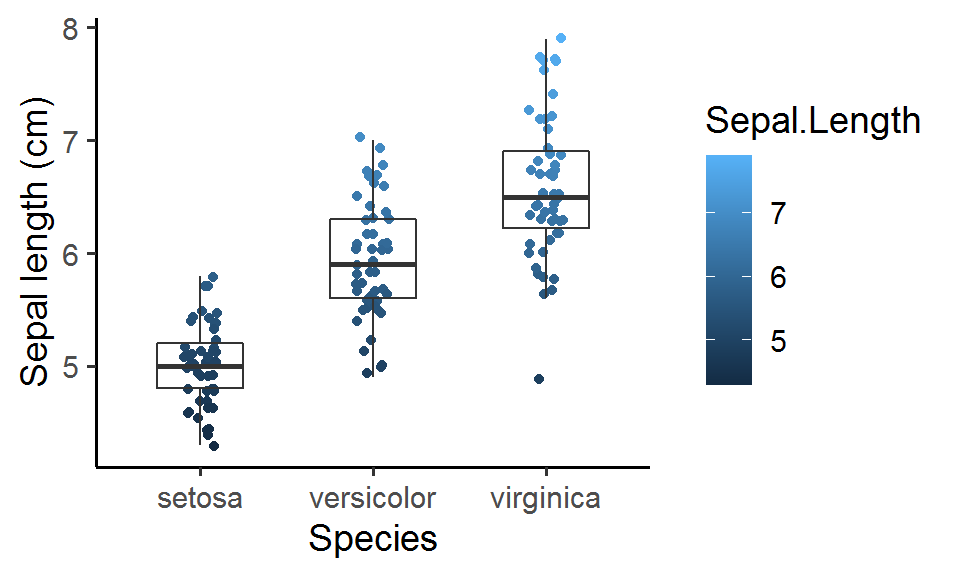
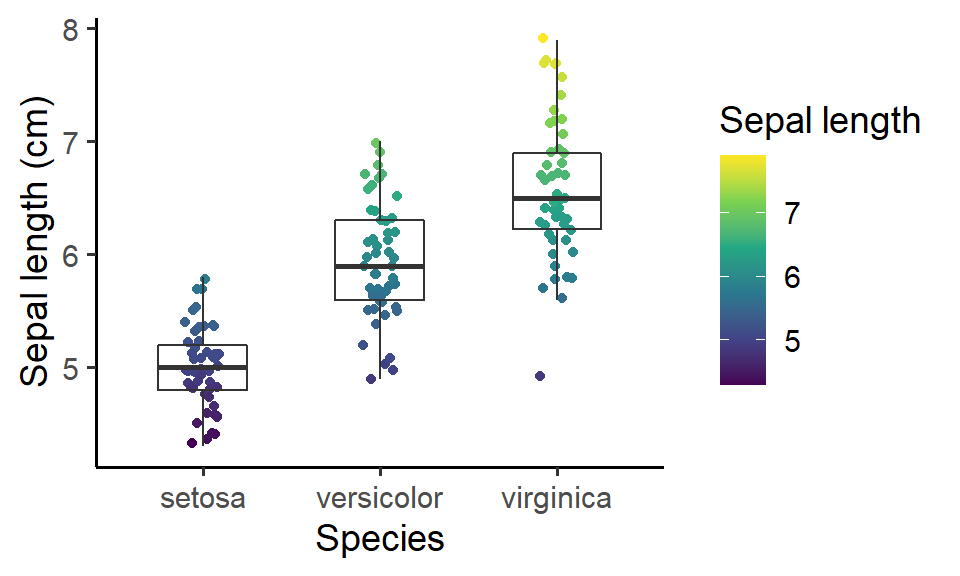
u

diff --git a/_posts/2022-04-24-post-14-multiple-color-scales-in-ggplots/post-14-multiple-color-scales-in-ggplots.html b/_posts/2022-04-24-post-14-multiple-color-scales-in-ggplots/post-14-multiple-color-scales-in-ggplots.html
@@ -89,7 +89,7 @@ code span.wa { color: #5e5e5e; font-style: italic; } /* Warning */
   <!--radix_placeholder_meta_tags-->
   <title>Post #14. Multiple color scales in ggplots</title>
 
-  <meta property="description" itemprop="description" content="A short description of the post."/>
+  <meta property="description" itemprop="description" content="Using different color scales for multiple geom layers with `ggnewscale` and `relayer`"/>
 
 
   <!--  https://schema.org/Article -->
@@ -100,24 +100,24 @@ code span.wa { color: #5e5e5e; font-style: italic; } /* Warning */
   <!--  https://developers.facebook.com/docs/sharing/webmasters#markup -->
   <meta property="og:title" content="Post #14. Multiple color scales in ggplots"/>
   <meta property="og:type" content="article"/>
-  <meta property="og:description" content="A short description of the post."/>
+  <meta property="og:description" content="Using different color scales for multiple geom layers with `ggnewscale` and `relayer`"/>
   <meta property="og:locale" content="en_US"/>
 
   <!--  https://dev.twitter.com/cards/types/summary -->
   <meta property="twitter:card" content="summary"/>
   <meta property="twitter:title" content="Post #14. Multiple color scales in ggplots"/>
-  <meta property="twitter:description" content="A short description of the post."/>
+  <meta property="twitter:description" content="Using different color scales for multiple geom layers with `ggnewscale` and `relayer`"/>
 
   <!--/radix_placeholder_meta_tags-->
   <!--radix_placeholder_rmarkdown_metadata-->
 
   <script type="text/json" id="radix-rmarkdown-metadata">
-  {"type":"list","attributes":{"names":{"type":"character","attributes":{},"value":["title","description","author","date","output","categories","preview","draft"]}},"value":[{"type":"character","attributes":{},"value":["Post #14. Multiple color scales in ggplots"]},{"type":"character","attributes":{},"value":["A short description of the post.\n"]},{"type":"list","attributes":{},"value":[{"type":"list","attributes":{"names":{"type":"character","attributes":{},"value":["name"]}},"value":[{"type":"character","attributes":{},"value":["Gen-Chang Hsu"]}]}]},{"type":"character","attributes":{},"value":["2022-04-24"]},{"type":"list","attributes":{"names":{"type":"character","attributes":{},"value":["distill::distill_article"]}},"value":[{"type":"list","attributes":{"names":{"type":"character","attributes":{},"value":["self_contained"]}},"value":[{"type":"logical","attributes":{},"value":[false]}]}]},{"type":"character","attributes":{},"value":["2022"]},{"type":"character","attributes":{},"value":["../../homepage_images/Post14.png"]},{"type":"logical","attributes":{},"value":[true]}]}
+  {"type":"list","attributes":{"names":{"type":"character","attributes":{},"value":["title","description","author","date","output","categories","preview","draft"]}},"value":[{"type":"character","attributes":{},"value":["Post #14. Multiple color scales in ggplots"]},{"type":"character","attributes":{},"value":["Using different color scales for multiple geom layers with `ggnewscale` and `relayer`\n"]},{"type":"list","attributes":{},"value":[{"type":"list","attributes":{"names":{"type":"character","attributes":{},"value":["name"]}},"value":[{"type":"character","attributes":{},"value":["Gen-Chang Hsu"]}]}]},{"type":"character","attributes":{},"value":["2022-04-24"]},{"type":"list","attributes":{"names":{"type":"character","attributes":{},"value":["distill::distill_article"]}},"value":[{"type":"list","attributes":{"names":{"type":"character","attributes":{},"value":["self_contained"]}},"value":[{"type":"logical","attributes":{},"value":[false]}]}]},{"type":"character","attributes":{},"value":["2022"]},{"type":"character","attributes":{},"value":["../../homepage_images/Post14.png"]},{"type":"logical","attributes":{},"value":[true]}]}
   </script>
   <!--/radix_placeholder_rmarkdown_metadata-->
   
   <script type="text/json" id="radix-resource-manifest">
-  {"type":"character","attributes":{},"value":["post-14-multiple-color-scales-in-ggplots_files/anchor-4.2.2/anchor.min.js","post-14-multiple-color-scales-in-ggplots_files/bowser-1.9.3/bowser.min.js","post-14-multiple-color-scales-in-ggplots_files/distill-2.2.21/template.v2.js","post-14-multiple-color-scales-in-ggplots_files/figure-html5/unnamed-chunk-1-1.png","post-14-multiple-color-scales-in-ggplots_files/figure-html5/unnamed-chunk-2-1.png","post-14-multiple-color-scales-in-ggplots_files/header-attrs-2.11/header-attrs.js","post-14-multiple-color-scales-in-ggplots_files/jquery-3.6.0/jquery-3.6.0.js","post-14-multiple-color-scales-in-ggplots_files/jquery-3.6.0/jquery-3.6.0.min.js","post-14-multiple-color-scales-in-ggplots_files/jquery-3.6.0/jquery-3.6.0.min.map","post-14-multiple-color-scales-in-ggplots_files/popper-2.6.0/popper.min.js","post-14-multiple-color-scales-in-ggplots_files/tippy-6.2.7/tippy-bundle.umd.min.js","post-14-multiple-color-scales-in-ggplots_files/tippy-6.2.7/tippy-light-border.css","post-14-multiple-color-scales-in-ggplots_files/tippy-6.2.7/tippy.css","post-14-multiple-color-scales-in-ggplots_files/tippy-6.2.7/tippy.umd.min.js","post-14-multiple-color-scales-in-ggplots_files/webcomponents-2.0.0/webcomponents.js"]}
+  {"type":"character","attributes":{},"value":["post-14-multiple-color-scales-in-ggplots_files/anchor-4.2.2/anchor.min.js","post-14-multiple-color-scales-in-ggplots_files/bowser-1.9.3/bowser.min.js","post-14-multiple-color-scales-in-ggplots_files/distill-2.2.21/template.v2.js","post-14-multiple-color-scales-in-ggplots_files/figure-html5/unnamed-chunk-1-1.png","post-14-multiple-color-scales-in-ggplots_files/figure-html5/unnamed-chunk-2-1.png","post-14-multiple-color-scales-in-ggplots_files/figure-html5/unnamed-chunk-3-1.png","post-14-multiple-color-scales-in-ggplots_files/header-attrs-2.11/header-attrs.js","post-14-multiple-color-scales-in-ggplots_files/header-attrs-2.13/header-attrs.js","post-14-multiple-color-scales-in-ggplots_files/jquery-3.6.0/jquery-3.6.0.js","post-14-multiple-color-scales-in-ggplots_files/jquery-3.6.0/jquery-3.6.0.min.js","post-14-multiple-color-scales-in-ggplots_files/jquery-3.6.0/jquery-3.6.0.min.map","post-14-multiple-color-scales-in-ggplots_files/popper-2.6.0/popper.min.js","post-14-multiple-color-scales-in-ggplots_files/tippy-6.2.7/tippy-bundle.umd.min.js","post-14-multiple-color-scales-in-ggplots_files/tippy-6.2.7/tippy-light-border.css","post-14-multiple-color-scales-in-ggplots_files/tippy-6.2.7/tippy.css","post-14-multiple-color-scales-in-ggplots_files/tippy-6.2.7/tippy.umd.min.js","post-14-multiple-color-scales-in-ggplots_files/webcomponents-2.0.0/webcomponents.js"]}
   </script>
   <!--radix_placeholder_navigation_in_header-->
   <!--/radix_placeholder_navigation_in_header-->
@@ -1438,7 +1438,7 @@ code span.wa { color: #5e5e5e; font-style: italic; } /* Warning */
   </script>
 
   <!--/radix_placeholder_distill-->
-  <script src="post-14-multiple-color-scales-in-ggplots_files/header-attrs-2.11/header-attrs.js"></script>
+  <script src="post-14-multiple-color-scales-in-ggplots_files/header-attrs-2.13/header-attrs.js"></script>
   <script src="post-14-multiple-color-scales-in-ggplots_files/jquery-3.6.0/jquery-3.6.0.min.js"></script>
   <script src="post-14-multiple-color-scales-in-ggplots_files/popper-2.6.0/popper.min.js"></script>
   <link href="post-14-multiple-color-scales-in-ggplots_files/tippy-6.2.7/tippy.css" rel="stylesheet" />
@@ -1459,7 +1459,7 @@ code span.wa { color: #5e5e5e; font-style: italic; } /* Warning */
 <!--radix_placeholder_front_matter-->
 
 <script id="distill-front-matter" type="text/json">
-{"title":"Post #14. Multiple color scales in ggplots","description":"A short description of the post.","authors":[{"author":"Gen-Chang Hsu","authorURL":"#","affiliation":"&nbsp;","affiliationURL":"#","orcidID":""}],"publishedDate":"2022-04-24T00:00:00.000-07:00","citationText":"Hsu, 2022"}
+{"title":"Post #14. Multiple color scales in ggplots","description":"Using different color scales for multiple geom layers with `ggnewscale` and `relayer`","authors":[{"author":"Gen-Chang Hsu","authorURL":"#","affiliation":"&nbsp;","affiliationURL":"#","orcidID":""}],"publishedDate":"2022-04-24T00:00:00.000+08:00","citationText":"Hsu, 2022"}
 </script>
 
 <!--/radix_placeholder_front_matter-->
@@ -1475,7 +1475,7 @@ code span.wa { color: #5e5e5e; font-style: italic; } /* Warning */
 <div class="dt=tag">2022</div>
 </div>
 <!--/radix_placeholder_categories-->
-<p><p>A short description of the post.</p></p>
+<p><p>Using different color scales for multiple geom layers with <code>ggnewscale</code> and <code>relayer</code></p></p>
 </div>
 
 <div class="d-byline">
@@ -1550,52 +1550,68 @@ div.l-body img {
 </style>
 <!-- Start of the article -->
 <h2 id="the-problem">The problem</h2>
-<p>create a contour plot mapped to continuous colors add a second geom
-layer with mapped to discrete colors</p>
+<p>Sometimes we may want to use different “color” aesthetics for multiple geom layers. Sounds abstract? To make it clear, we’ll begin with an example plot:</p>
 <div class="layout-chunk" data-layout="l-body">
 <div class="sourceCode">
 <pre class="sourceCode r"><code class="sourceCode r"><span class='kw'><a href='https://rdrr.io/r/base/library.html'>library</a></span><span class='op'>(</span><span class='va'><a href='https://tidyverse.tidyverse.org'>tidyverse</a></span><span class='op'>)</span>
 
-<span class='fu'><a href='https://rdrr.io/pkg/ggplot2/man/ggplot.html'>ggplot</a></span><span class='op'>(</span><span class='va'>iris</span><span class='op'>)</span> <span class='op'>+</span> 
-  <span class='fu'><a href='https://rdrr.io/pkg/ggplot2/man/geom_point.html'>geom_point</a></span><span class='op'>(</span><span class='fu'><a href='https://rdrr.io/pkg/ggplot2/man/aes.html'>aes</a></span><span class='op'>(</span>x <span class='op'>=</span> <span class='va'>Species</span>, y <span class='op'>=</span> <span class='va'>Sepal.Length</span>, color <span class='op'>=</span> <span class='va'>Sepal.Length</span><span class='op'>)</span>, position <span class='op'>=</span> <span class='fu'><a href='https://rdrr.io/pkg/ggplot2/man/position_jitter.html'>position_jitter</a></span><span class='op'>(</span>width <span class='op'>=</span> <span class='fl'>0.1</span><span class='op'>)</span><span class='op'>)</span> <span class='op'>+</span> 
-  <span class='fu'><a href='https://rdrr.io/pkg/ggplot2/man/geom_boxplot.html'>geom_boxplot</a></span><span class='op'>(</span><span class='fu'><a href='https://rdrr.io/pkg/ggplot2/man/aes.html'>aes</a></span><span class='op'>(</span>x <span class='op'>=</span> <span class='va'>Species</span>, y <span class='op'>=</span> <span class='va'>Sepal.Length</span><span class='op'>)</span>, width <span class='op'>=</span> <span class='fl'>0.5</span>, outlier.color <span class='op'>=</span> <span class='cn'>NA</span>, fill <span class='op'>=</span> <span class='cn'>NA</span><span class='op'>)</span> <span class='op'>+</span> 
-  <span class='fu'><a href='https://rdrr.io/pkg/ggplot2/man/labs.html'>labs</a></span><span class='op'>(</span>y <span class='op'>=</span> <span class='st'>"Sepal length (cm)"</span><span class='op'>)</span> <span class='op'>+</span> 
-  <span class='fu'><a href='https://rdrr.io/pkg/ggplot2/man/ggtheme.html'>theme_classic</a></span><span class='op'>(</span>base_size <span class='op'>=</span> <span class='fl'>14</span><span class='op'>)</span>
+<span class='fu'><a href='https://ggplot2.tidyverse.org/reference/ggplot.html'>ggplot</a></span><span class='op'>(</span>data <span class='op'>=</span> <span class='va'>iris</span><span class='op'>)</span> <span class='op'>+</span> 
+  <span class='fu'><a href='https://ggplot2.tidyverse.org/reference/geom_point.html'>geom_point</a></span><span class='op'>(</span><span class='fu'><a href='https://ggplot2.tidyverse.org/reference/aes.html'>aes</a></span><span class='op'>(</span>x <span class='op'>=</span> <span class='va'>Species</span>, y <span class='op'>=</span> <span class='va'>Sepal.Length</span>, color <span class='op'>=</span> <span class='va'>Sepal.Length</span><span class='op'>)</span>, position <span class='op'>=</span> <span class='fu'><a href='https://ggplot2.tidyverse.org/reference/position_jitter.html'>position_jitter</a></span><span class='op'>(</span>width <span class='op'>=</span> <span class='fl'>0.1</span><span class='op'>)</span><span class='op'>)</span> <span class='op'>+</span> 
+  <span class='fu'><a href='https://ggplot2.tidyverse.org/reference/geom_boxplot.html'>geom_boxplot</a></span><span class='op'>(</span><span class='fu'><a href='https://ggplot2.tidyverse.org/reference/aes.html'>aes</a></span><span class='op'>(</span>x <span class='op'>=</span> <span class='va'>Species</span>, y <span class='op'>=</span> <span class='va'>Sepal.Length</span><span class='op'>)</span>, width <span class='op'>=</span> <span class='fl'>0.5</span>, outlier.color <span class='op'>=</span> <span class='cn'>NA</span>, fill <span class='op'>=</span> <span class='cn'>NA</span><span class='op'>)</span> <span class='op'>+</span> 
+  <span class='fu'><a href='https://ggplot2.tidyverse.org/reference/labs.html'>labs</a></span><span class='op'>(</span>y <span class='op'>=</span> <span class='st'>"Sepal length (cm)"</span><span class='op'>)</span> <span class='op'>+</span> 
+  <span class='fu'><a href='https://ggplot2.tidyverse.org/reference/ggtheme.html'>theme_classic</a></span><span class='op'>(</span>base_size <span class='op'>=</span> <span class='fl'>14</span><span class='op'>)</span> <span class='op'>+</span> 
+  <span class='fu'><a href='https://ggplot2.tidyverse.org/reference/scale_viridis.html'>scale_color_viridis_c</a></span><span class='op'>(</span>name <span class='op'>=</span> <span class='st'>"Sepal length"</span><span class='op'>)</span>
 </code></pre>
 </div>
 <p><img src="post-14-multiple-color-scales-in-ggplots_files/figure-html5/unnamed-chunk-1-1.png" width="70%" /></p>
 </div>
-<h2 id="the-solution">The solution</h2>
-<p>Thankfully there have been packages designed for this. Two packages,
-I’ll introduce and walk through them in the following sections.</p>
-<h3 id="ggnewscale">ggnewscale</h3>
-<p>To seek a quick fix, <code>ggnewscale</code> is the go-to: The main
-function <code>new_scale_color()</code> is super straightforward</p>
+<p>Here, we make a boxplot of the sepal length for the three species and add the original data points, which are mapped to a continuous color scale.</p>
+<p>Now, what if we want to use different colors for the boxes? Let’s try it out:</p>
 <div class="layout-chunk" data-layout="l-body">
 <div class="sourceCode">
-<pre class="sourceCode r"><code class="sourceCode r"><span class='kw'><a href='https://rdrr.io/r/base/library.html'>library</a></span><span class='op'>(</span><span class='va'><a href='https://tidyverse.tidyverse.org'>tidyverse</a></span><span class='op'>)</span>
-
-<span class='va'>P1</span> <span class='op'>&lt;-</span> <span class='fu'><a href='https://rdrr.io/pkg/ggplot2/man/ggplot.html'>ggplot</a></span><span class='op'>(</span><span class='op'>)</span> <span class='op'>+</span> 
-  <span class='fu'><a href='https://rdrr.io/pkg/ggplot2/man/geom_boxplot.html'>geom_boxplot</a></span><span class='op'>(</span>data <span class='op'>=</span> <span class='va'>CO2</span>, <span class='fu'><a href='https://rdrr.io/pkg/ggplot2/man/aes.html'>aes</a></span><span class='op'>(</span>x <span class='op'>=</span> <span class='va'>Treatment</span>, y <span class='op'>=</span> <span class='va'>uptake</span>, color <span class='op'>=</span> <span class='va'>Type</span><span class='op'>)</span>, width <span class='op'>=</span> <span class='fl'>0.5</span>, outlier.color <span class='op'>=</span> <span class='cn'>NA</span><span class='op'>)</span> <span class='op'>+</span> 
-  <span class='fu'><a href='https://rdrr.io/pkg/ggplot2/man/labs.html'>labs</a></span><span class='op'>(</span>x <span class='op'>=</span> <span class='st'>"Treatment"</span>, y <span class='op'>=</span> <span class='fu'><a href='https://rdrr.io/r/base/expression.html'>expression</a></span><span class='op'>(</span><span class='fu'><a href='https://rdrr.io/r/base/paste.html'>paste</a></span><span class='op'>(</span><span class='va'>CO</span><span class='op'>[</span><span class='fl'>2</span><span class='op'>]</span>, <span class='st'>" uptake rate"</span><span class='op'>)</span><span class='op'>)</span><span class='op'>)</span> <span class='op'>+</span> 
-  <span class='fu'><a href='https://rdrr.io/pkg/ggplot2/man/ggtheme.html'>theme_classic</a></span><span class='op'>(</span>base_size <span class='op'>=</span> <span class='fl'>14</span><span class='op'>)</span> <span class='op'>+</span> 
-  <span class='fu'><a href='https://rdrr.io/pkg/ggplot2/man/scale_brewer.html'>scale_color_brewer</a></span><span class='op'>(</span>palette <span class='op'>=</span> <span class='st'>"Set1"</span><span class='op'>)</span>
-
-<span class='va'>P1</span>
+<pre class="sourceCode r"><code class="sourceCode r"><span class='fu'><a href='https://ggplot2.tidyverse.org/reference/ggplot.html'>ggplot</a></span><span class='op'>(</span>data <span class='op'>=</span> <span class='va'>iris</span><span class='op'>)</span> <span class='op'>+</span> 
+  <span class='fu'><a href='https://ggplot2.tidyverse.org/reference/geom_point.html'>geom_point</a></span><span class='op'>(</span><span class='fu'><a href='https://ggplot2.tidyverse.org/reference/aes.html'>aes</a></span><span class='op'>(</span>x <span class='op'>=</span> <span class='va'>Species</span>, y <span class='op'>=</span> <span class='va'>Sepal.Length</span>, color <span class='op'>=</span> <span class='va'>Sepal.Length</span><span class='op'>)</span>, position <span class='op'>=</span> <span class='fu'><a href='https://ggplot2.tidyverse.org/reference/position_jitter.html'>position_jitter</a></span><span class='op'>(</span>width <span class='op'>=</span> <span class='fl'>0.1</span><span class='op'>)</span><span class='op'>)</span> <span class='op'>+</span> 
+  <span class='fu'><a href='https://ggplot2.tidyverse.org/reference/geom_boxplot.html'>geom_boxplot</a></span><span class='op'>(</span><span class='fu'><a href='https://ggplot2.tidyverse.org/reference/aes.html'>aes</a></span><span class='op'>(</span>x <span class='op'>=</span> <span class='va'>Species</span>, y <span class='op'>=</span> <span class='va'>Sepal.Length</span>, color <span class='op'>=</span> <span class='va'>Species</span><span class='op'>)</span>, width <span class='op'>=</span> <span class='fl'>0.5</span>, outlier.color <span class='op'>=</span> <span class='cn'>NA</span>, fill <span class='op'>=</span> <span class='cn'>NA</span><span class='op'>)</span> <span class='op'>+</span>  <span class='co'># map species to color</span>
+  <span class='fu'><a href='https://ggplot2.tidyverse.org/reference/labs.html'>labs</a></span><span class='op'>(</span>y <span class='op'>=</span> <span class='st'>"Sepal length (cm)"</span><span class='op'>)</span> <span class='op'>+</span> 
+  <span class='fu'><a href='https://ggplot2.tidyverse.org/reference/ggtheme.html'>theme_classic</a></span><span class='op'>(</span>base_size <span class='op'>=</span> <span class='fl'>14</span><span class='op'>)</span> <span class='op'>+</span> 
+  <span class='fu'><a href='https://ggplot2.tidyverse.org/reference/scale_viridis.html'>scale_color_viridis_c</a></span><span class='op'>(</span>name <span class='op'>=</span> <span class='st'>"Sepal length"</span><span class='op'>)</span> <span class='op'>+</span> 
+  <span class='fu'><a href='https://ggplot2.tidyverse.org/reference/scale_brewer.html'>scale_color_brewer</a></span><span class='op'>(</span>name <span class='op'>=</span> <span class='st'>"Species"</span>, palette <span class='op'>=</span> <span class='st'>"Set1"</span><span class='op'>)</span>  <span class='co'># color scale for species</span>
 </code></pre>
 </div>
-<p><img src="post-14-multiple-color-scales-in-ggplots_files/figure-html5/unnamed-chunk-2-1.png" width="70%" /></p>
+<pre><code>Scale for &#39;colour&#39; is already present. Adding another scale for
+&#39;colour&#39;, which will replace the existing scale.</code></pre>
+<pre><code>Error: Continuous value supplied to discrete scale</code></pre>
 </div>
-<h3 id="relayer">relayer</h3>
-<p>Another package that can deal with this situation is
-<code>relayer</code>.</p>
+<p>Eek, it throws an error!!! The message says “Continuous value supplied to discrete scale”, meaning that we cannot use another color scale (the discrete one for species) when there is already one (the continuous one for sepal length).</p>
+<h2 id="the-solution">The solution</h2>
+<p>Thankfully, there are extension packages designed to solve this: <a href="https://eliocamp.github.io/ggnewscale/"><code>ggnewscale</code></a> and <a href="https://github.com/clauswilke/relayer"><code>relayer</code></a>. I’ll walk through them in the following sections.</p>
+<h3 id="ggnewscale">(1) ggnewscale</h3>
+<p>Looking for a quick fix? <code>ggnewscale</code> is the go-to: The main function <code>new_scale_color()</code> is super straightforward and easy to use. Simply insert the function before a new color scale (in this case <code>scale_color_brewer()</code>). This will “decouple” the previous scale from the new scale so that the new one will not interfere with the previous one. Indeed, you can apply the principle to three or more color scales!</p>
+<p>By the way, note that <code>new_scale_color()</code> only starts a new <strong>scale</strong>, not <strong>geom</strong>! So if you put both geom_point() and geom_boxplot() before the function, the error will still occur (you can try this yourself)!</p>
+<div class="layout-chunk" data-layout="l-body">
+<div class="sourceCode">
+<pre class="sourceCode r"><code class="sourceCode r"><span class='co'># install.packages("ggnewscale")  # install the package if you haven't</span>
+<span class='kw'><a href='https://rdrr.io/r/base/library.html'>library</a></span><span class='op'>(</span><span class='va'>ggnewscale</span><span class='op'>)</span>
+
+<span class='fu'><a href='https://ggplot2.tidyverse.org/reference/ggplot.html'>ggplot</a></span><span class='op'>(</span><span class='va'>iris</span><span class='op'>)</span> <span class='op'>+</span> 
+  <span class='fu'><a href='https://ggplot2.tidyverse.org/reference/geom_point.html'>geom_point</a></span><span class='op'>(</span><span class='fu'><a href='https://ggplot2.tidyverse.org/reference/aes.html'>aes</a></span><span class='op'>(</span>x <span class='op'>=</span> <span class='va'>Species</span>, y <span class='op'>=</span> <span class='va'>Sepal.Length</span>, color <span class='op'>=</span> <span class='va'>Sepal.Length</span><span class='op'>)</span>, position <span class='op'>=</span> <span class='fu'><a href='https://ggplot2.tidyverse.org/reference/position_jitter.html'>position_jitter</a></span><span class='op'>(</span>width <span class='op'>=</span> <span class='fl'>0.1</span><span class='op'>)</span><span class='op'>)</span> <span class='op'>+</span> 
+  <span class='fu'><a href='https://ggplot2.tidyverse.org/reference/scale_viridis.html'>scale_color_viridis_c</a></span><span class='op'>(</span>name <span class='op'>=</span> <span class='st'>"Sepal length"</span><span class='op'>)</span> <span class='op'>+</span> 
+  <span class='fu'><a href='https://rdrr.io/pkg/ggnewscale/man/new_scale.html'>new_scale_color</a></span><span class='op'>(</span><span class='op'>)</span> <span class='op'>+</span>
+  <span class='fu'><a href='https://ggplot2.tidyverse.org/reference/geom_boxplot.html'>geom_boxplot</a></span><span class='op'>(</span><span class='fu'><a href='https://ggplot2.tidyverse.org/reference/aes.html'>aes</a></span><span class='op'>(</span>x <span class='op'>=</span> <span class='va'>Species</span>, y <span class='op'>=</span> <span class='va'>Sepal.Length</span>, color <span class='op'>=</span> <span class='va'>Species</span><span class='op'>)</span>, width <span class='op'>=</span> <span class='fl'>0.5</span>, outlier.color <span class='op'>=</span> <span class='cn'>NA</span>, fill <span class='op'>=</span> <span class='cn'>NA</span><span class='op'>)</span> <span class='op'>+</span> 
+  <span class='fu'><a href='https://ggplot2.tidyverse.org/reference/scale_brewer.html'>scale_color_brewer</a></span><span class='op'>(</span>palette <span class='op'>=</span> <span class='st'>"Set1"</span><span class='op'>)</span> <span class='op'>+</span> 
+  <span class='fu'><a href='https://ggplot2.tidyverse.org/reference/labs.html'>labs</a></span><span class='op'>(</span>y <span class='op'>=</span> <span class='st'>"Sepal length (cm)"</span><span class='op'>)</span> <span class='op'>+</span> 
+  <span class='fu'><a href='https://ggplot2.tidyverse.org/reference/ggtheme.html'>theme_classic</a></span><span class='op'>(</span>base_size <span class='op'>=</span> <span class='fl'>14</span><span class='op'>)</span>
+</code></pre>
+</div>
+<p><img src="post-14-multiple-color-scales-in-ggplots_files/figure-html5/unnamed-chunk-3-1.png" width="70%" /></p>
+</div>
+<h3 id="relayer">(2) relayer</h3>
+<p>Another package that can deal with this situation is <code>relayer</code>.</p>
 <h2 id="summary">Summary</h2>
-<p>In this post, we learned two packages to use different color scales
-for multiple geom layers.</p>
-<p>That’s it for this post and as always, don’t forget to leave your
-comments and suggestions below if you have any!</p>
-<div class="sourceCode" id="cb1"><pre
-class="sourceCode r distill-force-highlighting-css"><code class="sourceCode r"></code></pre></div>
+<p>In this post, we learned two packages that allow us to use different color scales for multiple geom layers: <code>ggnewscale</code> is the most convenient one for simple purposes, whereas <code>relayer</code> is slightly more complicated but at the same time more versatile.</p>
+<p>In this post, I use color aesthetic as an example (which I think is the most common situation). But the same idea applies to other aesthetics as well: fill, linetype, etc.</p>
+<p>That’s it for now and as always, don’t forget to leave your comments and suggestions below if you have any!</p>
+<div class="sourceCode" id="cb3"><pre class="sourceCode r distill-force-highlighting-css"><code class="sourceCode r"></code></pre></div>
 <!--radix_placeholder_article_footer-->
 <!--/radix_placeholder_article_footer-->
 </div>

diff --git a/_posts/2022-04-24-post-14-multiple-color-scales-in-ggplots/post-14-multiple-color-scales-in-ggplots_files/header-attrs-2.13/header-attrs.js b/_posts/2022-04-24-post-14-multiple-color-scales-in-ggplots/post-14-multiple-color-scales-in-ggplots_files/header-attrs-2.13/header-attrs.js
@@ -1,0 +1,12 @@
+// Pandoc 2.9 adds attributes on both header and div. We remove the former (to
+// be compatible with the behavior of Pandoc < 2.8).
+document.addEventListener('DOMContentLoaded', function(e) {
+  var hs = document.querySelectorAll("div.section[class*='level'] > :first-child");
+  var i, h, a;
+  for (i = 0; i < hs.length; i++) {
+    h = hs[i];
+    if (!/^h[1-6]$/i.test(h.tagName)) continue;  // it should be a header h1-h6
+    a = h.attributes;
+    while (a.length > 0) h.removeAttribute(a[0].name);
+  }
+});
